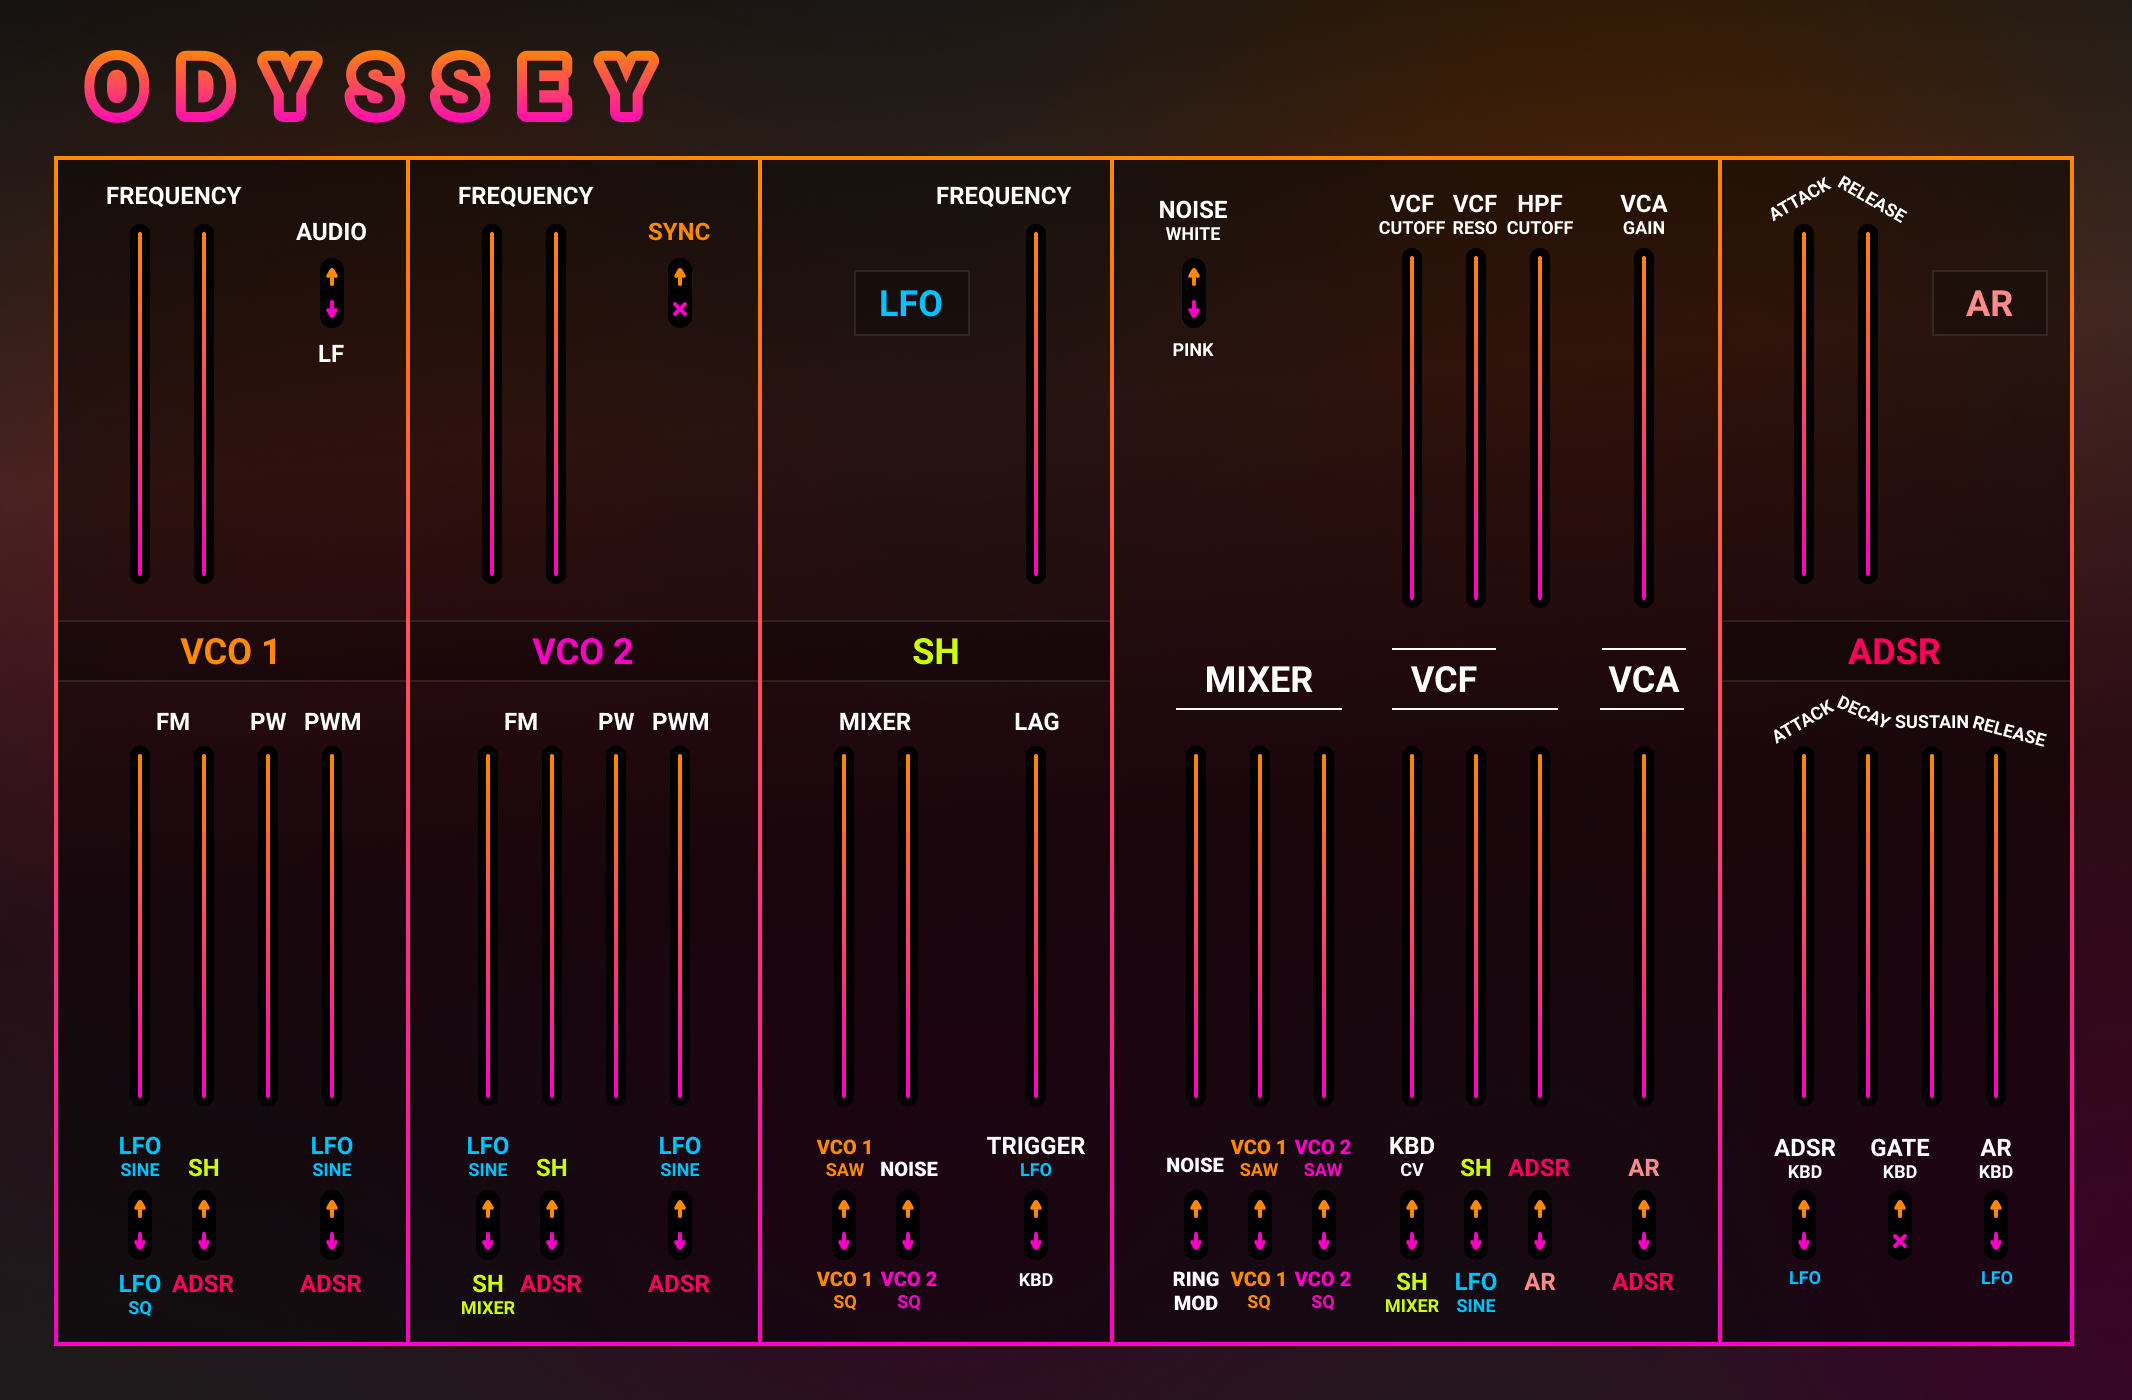
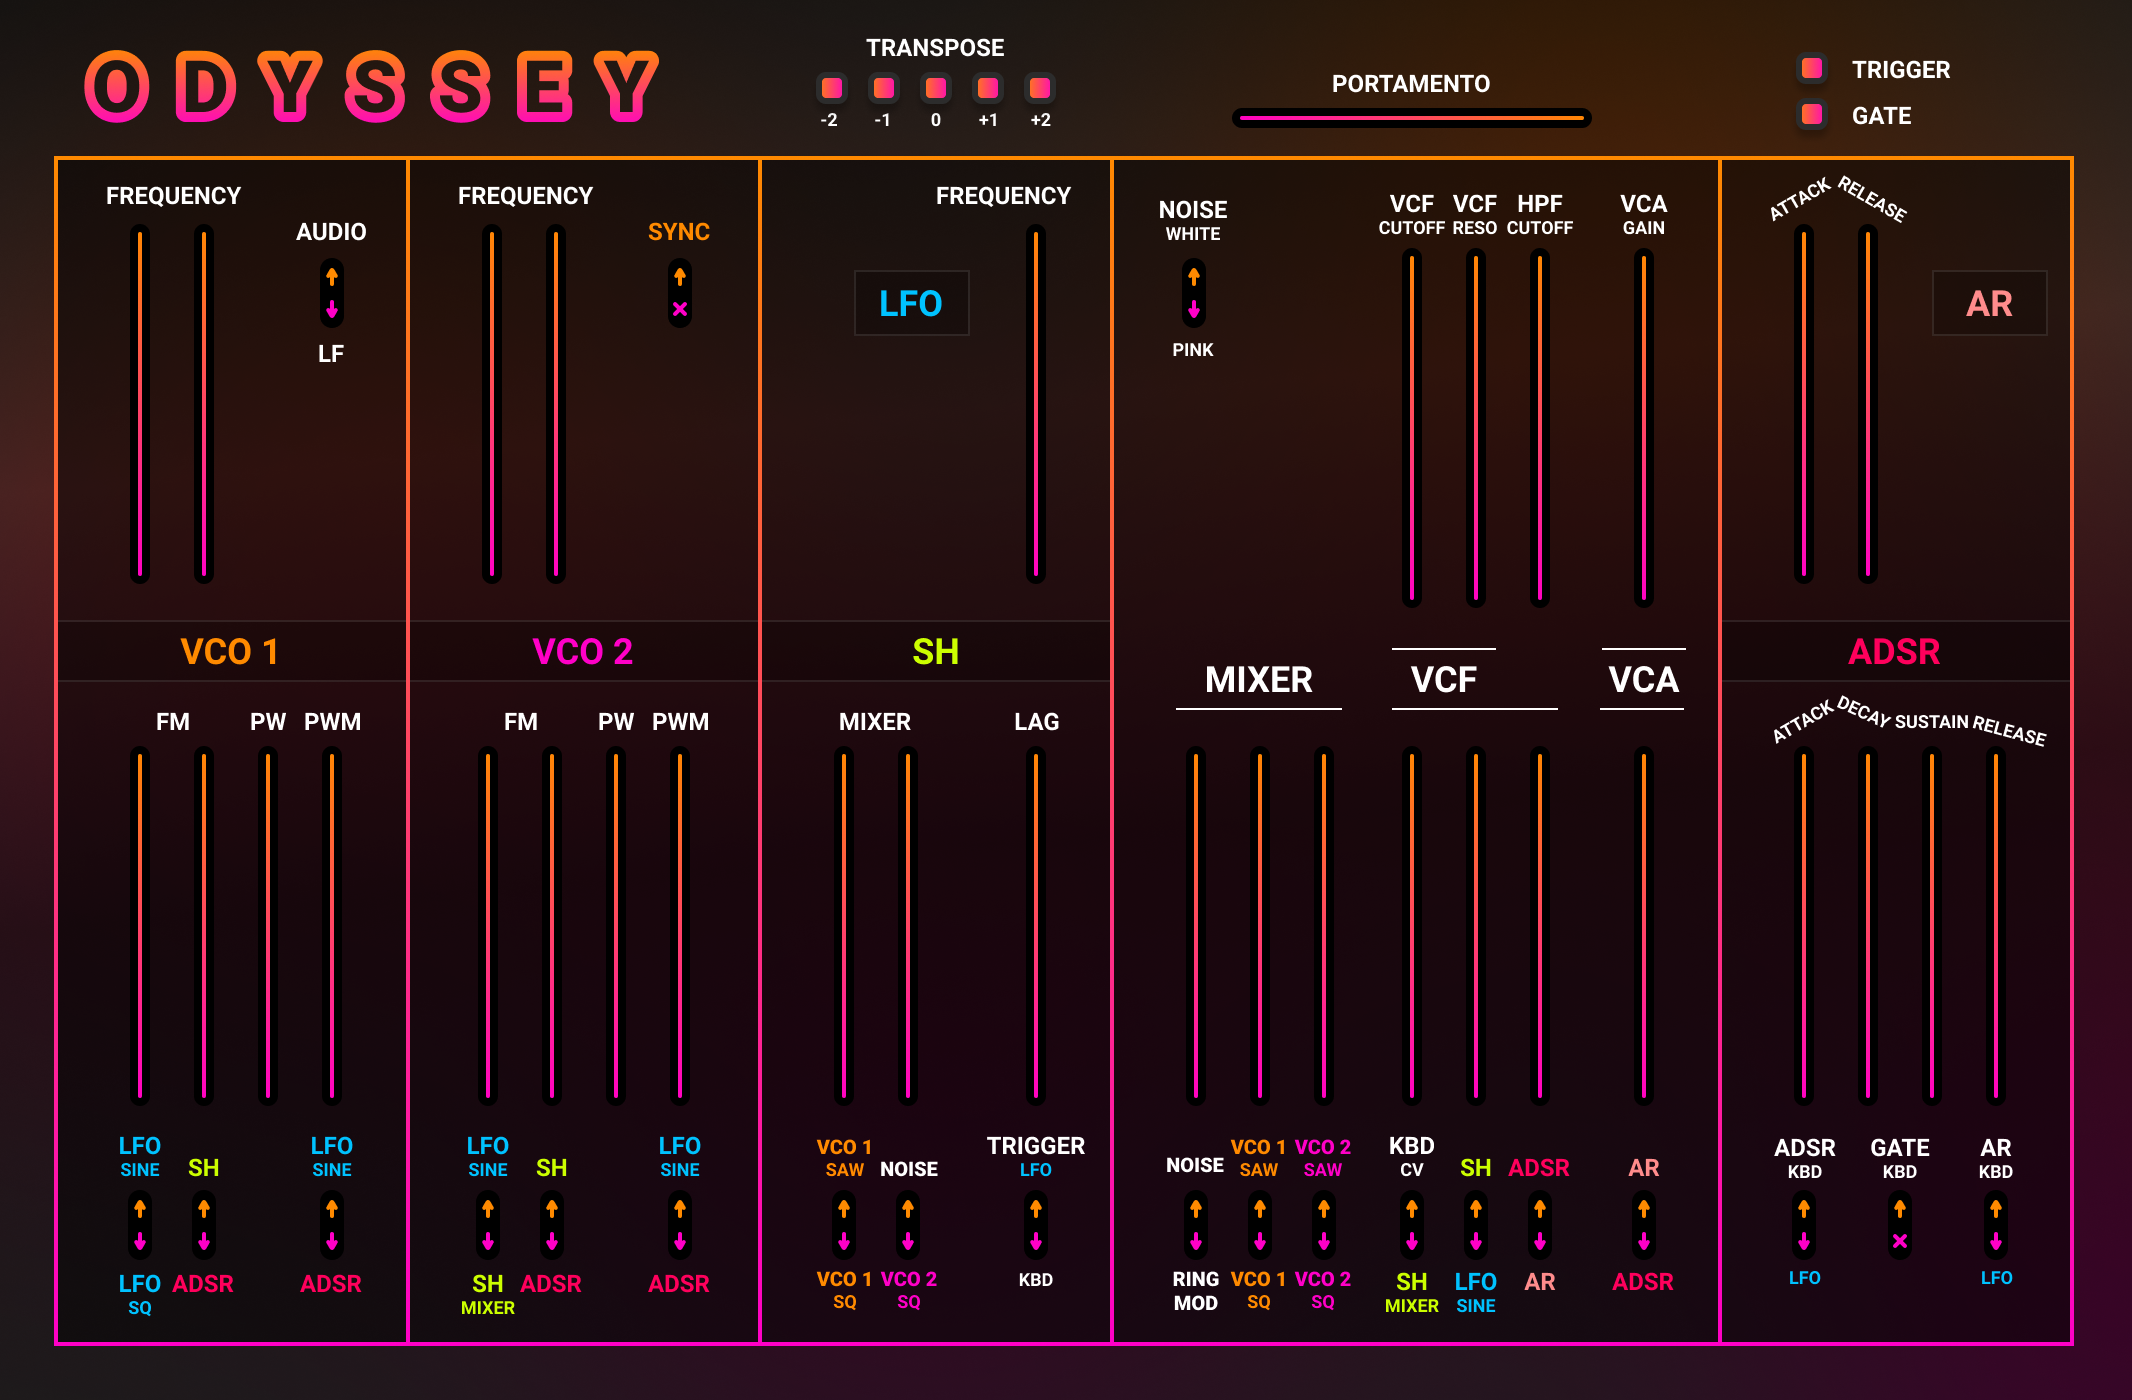
add transpose control

Changed region(s): [[0.5572, 0.0307, 0.743, 0.0921], [0.3715, 0.0307, 0.4953, 0.0921], [0.8358, 0.0307, 0.9287, 0.0921]]

diff --git a/qt/main.qml b/qt/main.qml
@@ -1,5 +1,6 @@
 import QtQuick 2.12
 import QtQuick.Window 2.12
+import Synth 1.0
 
 Window {
     visible: true
@@ -12,6 +13,35 @@ Window {
     Image {
         source: "Odyssey.png"
         anchors.fill: parent
+    }
+
+    Item {
+        x: 411
+        y: 39
+
+        Repeater {
+            model: 5
+
+            Rectangle {
+                x: index * 26
+                width: 10
+                height: 10
+                color: "#2C2C2C"
+                opacity: Synth.kbd_transpose === index - 2 ? 0 : 0.7
+
+                MouseArea {
+                    anchors.fill: parent
+                    cursorShape: "PointingHandCursor"
+                    onClicked: Synth.kbd_transpose = index - 2
+                }
+
+                Behavior on opacity {
+                    NumberAnimation {
+                        duration: 40
+                    }
+                }
+            }
+        }
     }
 
     Item {

diff --git a/core/kbd.cpp b/core/kbd.cpp
@@ -8,6 +8,5 @@
 
 void Synth::update_kbd() {
     float a = 1 - std::pow(10, -2 - kbd.portamento * sr / 2e4);
-    float transpose = kbd.transpose >= 0 ? std::pow(2, kbd.transpose) : 1 / std::pow(2, -kbd.transpose);
-    kbd.freq = a * kbd.freq + (1 - a) * kbd.freq_target * transpose;
+    kbd.freq = a * kbd.freq + (1 - a) * kbd.freq_target * std::pow(2, kbd.transpose);
 }

diff --git a/qt/QSynth.cpp b/qt/QSynth.cpp
@@ -65,6 +65,7 @@ void QSynth::loadPreset(const QString &name) {
     for (auto i = mo->propertyOffset(); i < mo->propertyCount(); ++i) {
         auto property = mo->property(i);
         QVariant value = settings.value(property.name());
+        qInfo() << property.name() << value;
         property.write(this, value);
     }
     settings.endGroup();
